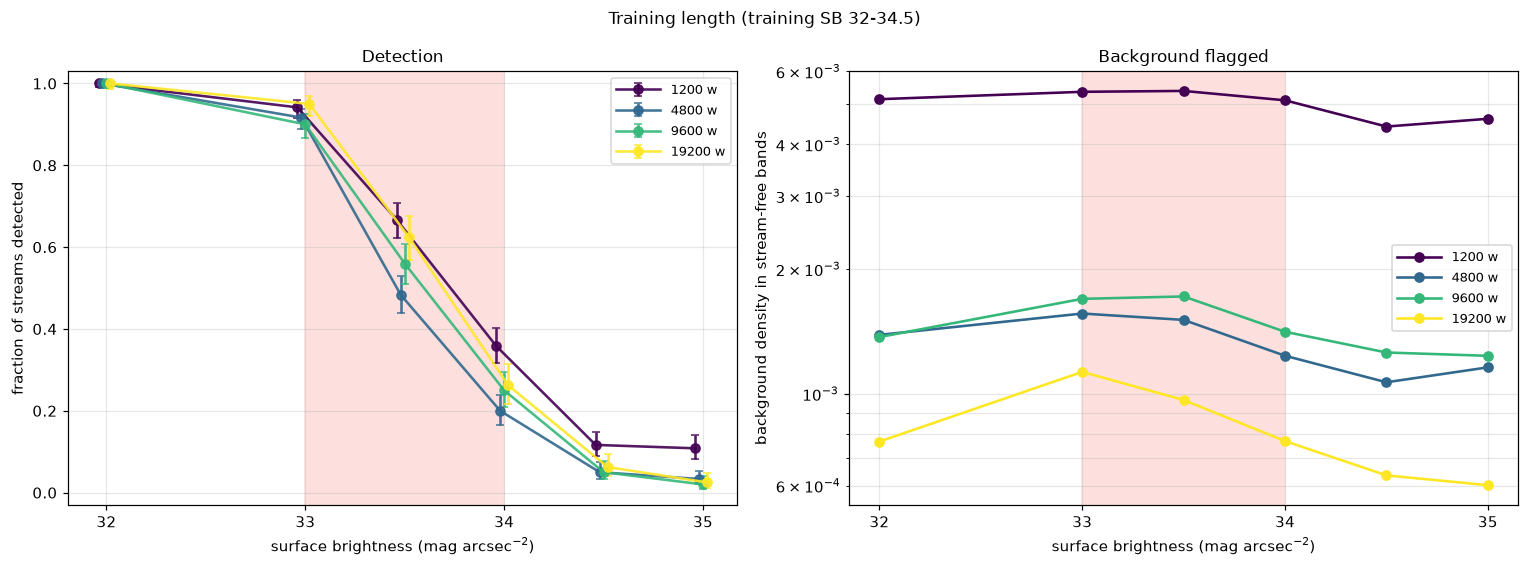
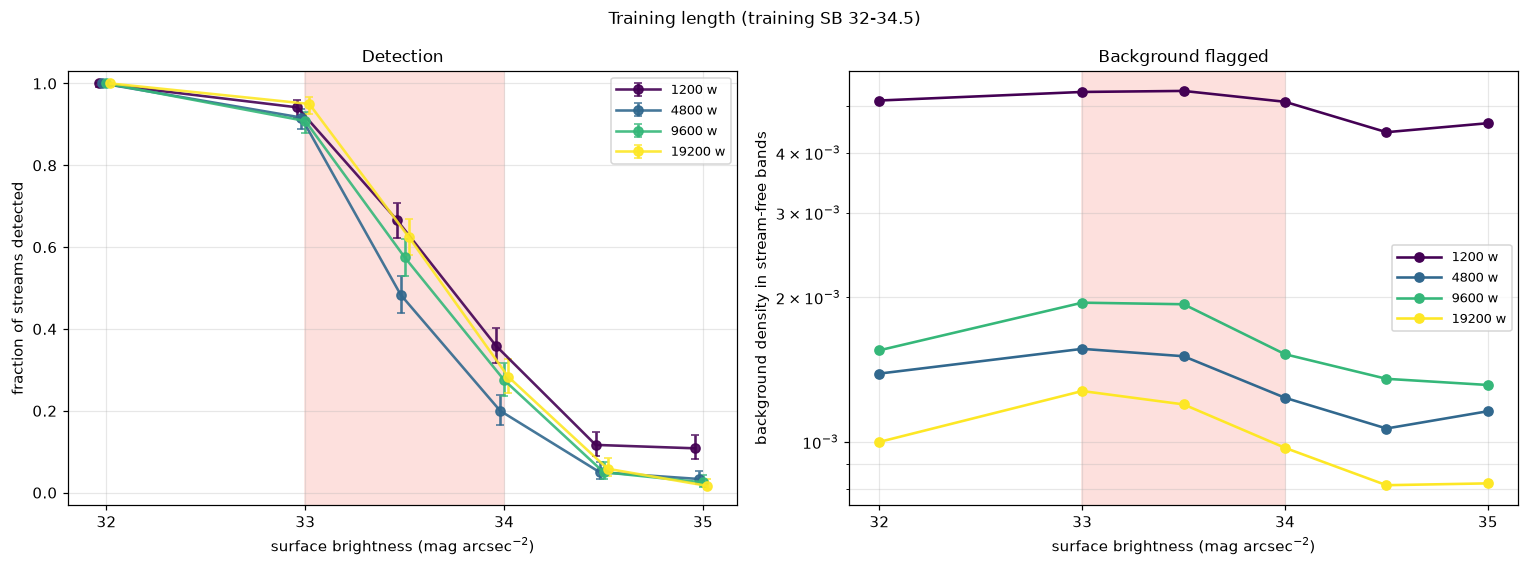
Hyperparameters: final numbers with 6 seeds per configuration
All 58 trainings are in. The extra seeds change section 2: at threshold 0.5
the four training lengths detect within 15 points of each other, which is
the spread between trainings of one configuration, and the background
ordering is not monotone. The matched-background columns were stable
throughout and are monotone in training length at both false-alarm budgets,
so the section now leads with them and says why.

Section 5 gains the equal-cost ensemble of four, which matches a single
19200-window training almost exactly, and states plainly that the ensemble
gain at matched background (7/20 against 11/20) is a direction rather than
a measurement.

diff --git a/docs/source/experiments/hyperparameters.md b/docs/source/experiments/hyperparameters.md
@@ -13,8 +13,10 @@ beyond matter, not only at 33. How detectable a real stream is will also
 depend on where it lies (survey depth, extinction, footprint edges), which
 these simulations do not vary.
 
-**Status.** Phases 1 and 2 done; the summary figures below are the result.
-Phase 3 (learning rate and batch size) is not run yet.
+**Status.** Training range, training length, network size and model averaging
+are done: 58 trainings, up to 6 seeds per configuration, each scored on 20
+injected streams at each of 6 surface brightnesses. Learning rate and batch
+size are not varied yet.
 
 ## Starting point
 
@@ -82,9 +84,9 @@ later without retraining.
 
 | Varied | Values | Seeds | Why |
 |---|---|---|---|
-| training surface brightness | 31-34 (starting point); 32-34.5 | 6 | more examples near the detection edge |
-| training length | 1200, 4800, 9600, 19200 windows | 4-6 | the batch-8 models look undertrained |
-| network depth and base width | depth 2, 3, 4; width 12, 24 | 2-6 | a faint stream is only visible by adding up pixels along its track (~70 px long), while a depth-2 network sees ~30-40 px at once |
+| training surface brightness | 31-34 (starting point); 32-34.5 | 6 each, except 2 for 9600 windows on 31-34 | more examples near the detection edge |
+| training length | 1200, 4800, 9600, 19200 windows | 6 | the batch-8 models look undertrained |
+| network depth and base width | depth 2, 3, 4; width 12, 24 | 6 at width 12, 2-4 at width 24 | a faint stream is only visible by adding up pixels along its track (~70 px long), while a depth-2 network sees ~30-40 px at once |
 | models averaged into one prediction | 1, 2, 3, 4, 6 | — | trainings differ a lot; does averaging them recover the faint end? |
 
 ## Results
@@ -126,14 +128,13 @@ general. Nothing here says the network learned a general notion of "stream";
 it learned where the decision boundary should sit for the population it was
 trained on.
 
-### 2. Training longer is a real improvement, hidden by the fixed threshold
+### 2. Training longer is a real improvement
 
-**Statement.** At threshold 0.5, training longer looks like a step backwards:
-the background gets cleaner and the faint-end detections get weaker. At a
-matched false-alarm rate the picture reverses — a longer training detects
-strictly more, taking SB 33.5 from 31% (1200 windows) to 60% (19200 windows)
-at a background density of 1e-3. Training length improves the model; the fixed
-threshold was hiding it by moving the operating point.
+**Statement.** Training longer buys a cleaner background at the same detection
+rate: from 1200 to 19200 windows the fraction of background flagged drops by a
+factor 4 while detection at SB 33.5 stays between 48% and 67%. Read at a
+matched false-alarm rate, where the two effects are separated, it is a plain
+gain: SB 33.5 goes from 31% to 60%.
 
 ```{image} figures/hyperparameters/2_training_length.png
 :alt: Detection fraction and background density against surface brightness for 1200 to 19200 training windows on the fainter range
@@ -141,21 +142,36 @@ threshold was hiding it by moving the operating point.
 ```
 
 *Both panels: models trained on SB 32-34.5, at threshold 0.5, colour by
-training length. Left: fraction of streams detected, mean over that
-configuration's trainings, with Wilson 68% sampling bars. Right: fraction of
-pixels flagged inside stream-shaped bands on a stream-free sky, same models,
-log scale — note that it moves by more than a decade while detection moves by
-tens of percent.*
+training length, 6 trainings per configuration. Left: fraction of streams
+detected, mean over those trainings, with Wilson 68% sampling bars — the four
+lengths sit within about 15 points of each other, which is the size of the
+spread between trainings of a single configuration (figure 4). Right: fraction
+of pixels flagged inside stream-shaped bands on a stream-free sky, same models,
+log scale.*
 
-Between 1200 and 9600 windows, detection at SB 33.5 falls from 67% to 49%
-while the background density falls from 5.4e-3 to 7.2e-4 — a factor 7 cleaner
-for a fifth of the detections lost. A longer training is more confident, so
-fewer marginal pixels pass 0.5: both the false ones and the true ones. Read at
-a fixed threshold that looks like a trade-off, but it is a slide along the
-model's detection-versus-false-alarm curve, and figure 6 shows that the curve
-itself has moved in the right direction. The practical consequence is that
-training length should be judged at a matched false-alarm rate, and the
-threshold set afterwards.
+At SB 33.5, with the last two columns from figure 6's construction:
+
+| Training windows | detected at 0.5 | background at 0.5 | detected at 1e-4 | detected at 1e-3 |
+|---|---|---|---|---|
+| 1200 | 67% | 5.4e-3 | 7% | 31% |
+| 4800 | 48% | 1.6e-3 | 21% | 44% |
+| 9600 | 57% | 2.0e-3 | 25% | 47% |
+| 19200 | 62% | 1.3e-3 | 32% | 60% |
+
+The first two columns are why a fixed threshold misleads: the 1200-window
+model has the most detections *and* four times the false alarms, so nothing
+can be concluded by reading detections alone. The last two columns hold the
+threshold's effect fixed and are monotone in training length, at both
+false-alarm budgets. A longer training is more confident, so fewer marginal
+pixels pass any given threshold — but the pixels it does keep are better
+chosen.
+
+An earlier version of this section, written when 9600 and 19200 windows still
+had 3-4 seeds, reported a clean "longer training trades detections for a
+cleaner background". With 6 seeds the detection differences at 0.5 shrank into
+the training-to-training spread and the background ordering stopped being
+monotone (9600 is dirtier than 4800). The matched-background columns were
+stable throughout, which is another reason to prefer them.
 
 ### 3. Depth and width change nothing
 
@@ -208,7 +224,7 @@ Standard deviation over trainings, at threshold 0.5:
 | 1200 w, SB 32-34.5 | 0.10 | 0.32 | 0.27 |
 | 4800 w, SB 32-34.5 | 0.05 | 0.33 | 0.17 |
 | 4800 w, SB 31-34 | 0.07 | 0.13 | 0.04 |
-| 19200 w, SB 32-34.5 | 0.00 | 0.09 | 0.08 |
+| 19200 w, SB 32-34.5 | 0.00 | 0.07 | 0.07 |
 
 Two consequences. First, any comparison of two configurations that differ by
 less than ~15 points at SB 33.5 is not established, however clean the curves
@@ -221,10 +237,9 @@ addresses.
 
 **Statement.** Averaging the per-pixel probabilities of N independently
 trained models, then thresholding once, detects more faint streams than any of
-the models alone, and removes the seed lottery. The gain survives the
-matched-background test of section 6, so it is a better model and not just a
-looser threshold. At equal training cost, averaging four short trainings is
-close to a single long one.
+the models alone, and removes the seed lottery: four or more averaged models
+take SB 33.5 from 20% to 55-60%. At equal training cost, averaging four short
+trainings matches a single long one almost exactly.
 
 ```{image} figures/hyperparameters/5_ensemble.png
 :alt: Detection fraction for ensembles of 1 to 6 averaged models, and the equal-cost comparison between four averaged 4800-window models and single 19200-window models
@@ -241,20 +256,32 @@ curves — a summary of several models, not a model you could deploy. The
 orange curve is the model average of four 4800-window trainings (4 × 4800 =
 19200 windows), the same object as the left panel's, with its sampling bars.*
 
-Averaging six models takes SB 33.5 from 20% to 55% and SB 34 from 0% to 20%
-relative to the single model, with the background density staying at a few
-1e-4. The mechanism is the one figure 4 exposes: each training flags a
-different, partly random subset of the marginal pixels, so the false alarms
-average down while the pixels that many models agree on survive. This costs N
-trainings and N forward passes per prediction — expensive, but the forward
-passes are cheap compared with training, and they parallelize.
+Averaging four or six models takes SB 33.5 from 20% to 60% and 55%, and SB 34
+from 0% to 20%, while the background density stays at 1.1e-3 and 4.8e-4 —
+below the 1.6e-3 of a typical single 4800-window model. Two and three models
+are not enough: the gain appears between three and four. The mechanism is the
+one figure 4 exposes: each training flags a different, partly random subset of
+the marginal pixels, so the false alarms average down while the pixels that
+many models agree on survive. This costs N trainings and N forward passes per
+prediction — expensive, but the forward passes are cheap compared with
+training, and they parallelize.
+
+Each ensemble curve is one prediction scored on 20 streams per surface
+brightness, so its sampling bars are wide (±0.11 at 50%) and the non-monotonic
+wiggles between sizes 2, 3 and 4 are noise. The step from ≤3 to ≥4 models,
+0.20 to 0.55-0.60, is larger than that; section 6 shows the same step is
+weaker once the false-alarm rate is held fixed, so the honest summary is that
+averaging clearly helps at a fixed threshold and probably, but not yet
+measurably, at a fixed false-alarm rate.
 
 The equal-cost comparison matters for how to spend a fixed budget. Four
 averaged trainings of 4800 windows and one training of 19200 windows use the
 same number of simulated windows. The single long training does well on
-average, but its individual curves scatter (thin lines), and you get one draw
-from that scatter; the average of four gives one prediction, reproducible in
-the sense that the remaining spread is much smaller.
+average — and the two curves agree within their bars at every surface
+brightness — but its individual curves scatter (thin lines), and you get one
+draw from that scatter. The average of four gives one prediction, whose
+remaining spread is much smaller. At this budget the choice is therefore about
+reproducibility rather than sensitivity.
 
 ### 6. Which of those effects are real, and which are the threshold moving
 
@@ -288,16 +315,19 @@ the false-alarm rate is the resource being spent. At a matched rate, at SB 33.5:
 | 4800 w, SB 31-34 | 20% | 35% |
 | 4800 w, SB 32-34.5 | 21% | 44% |
 | 1200 w, SB 32-34.5 | 7% | 31% |
-| 19200 w, SB 32-34.5 | 25% | 60% |
+| 19200 w, SB 32-34.5 | 32% | 60% |
 | 1 model (4800 w) | 20% | 35% |
 | 6 models averaged | 30% | 55% |
 
 The two training ranges are within a few points of each other — nothing like
 the 48% against 20% that figure 1 shows at threshold 0.5. Training on fainter
 streams mainly makes the model less conservative, which a threshold can do
-too. What survives the matched comparison is training length (31% → 60% at
-1e-3) and averaging (35% → 55% at 1e-3, 20% → 30% at 1e-4): both genuinely
-detect more faint streams at the same cost in false alarms.
+too. What survives the matched comparison is training length: 31% → 60% at 1e-3
+and 7% → 32% at 1e-4, monotone in both. Averaging points the same way (35% →
+55% at 1e-3, 20% → 30% at 1e-4) but each ensemble is one prediction scored on
+20 streams, so those are 7/20 against 11/20 and 4/20 against 6/20 — the right
+direction, not yet a measurement. Confirming it needs more evaluation streams
+per ensemble, not more models.
 
 This does not make the training range irrelevant. A model trained on 31-34
 cannot be pushed to the faint end by lowering its threshold indefinitely — at
